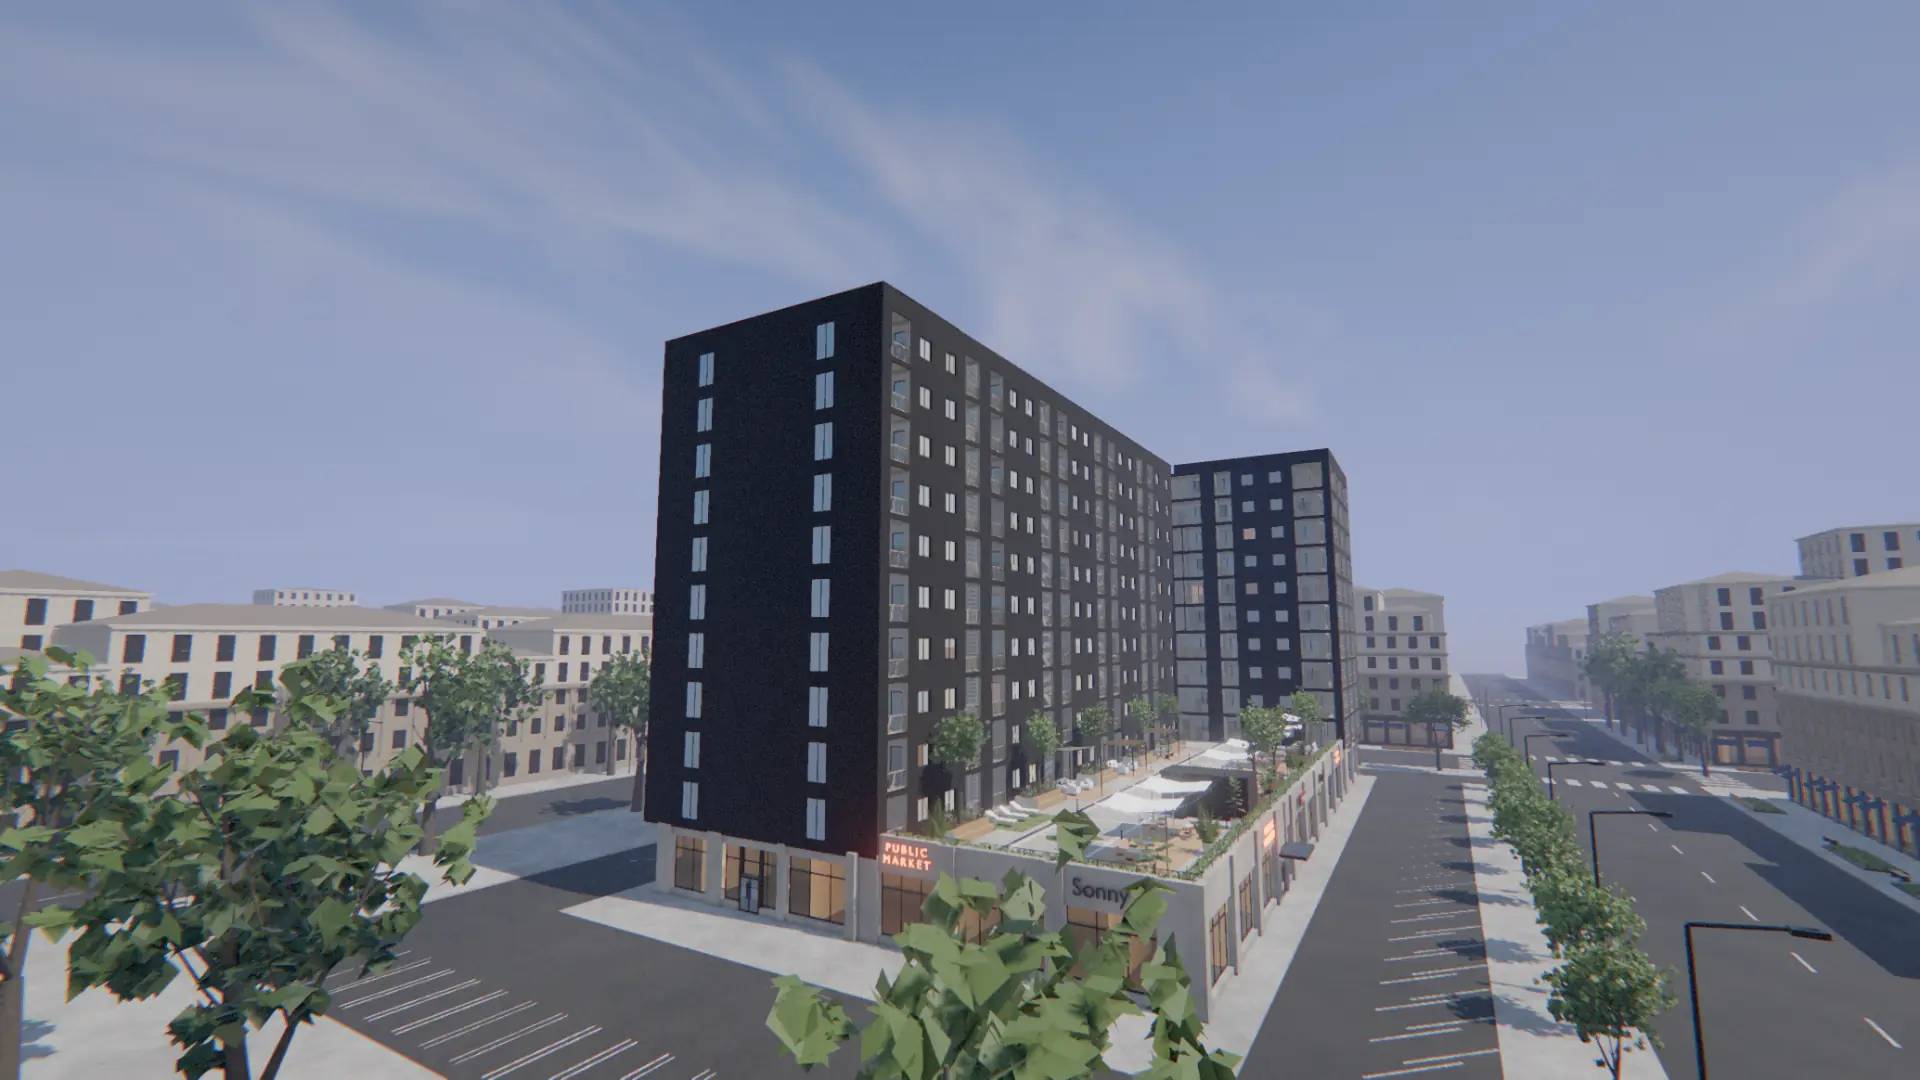
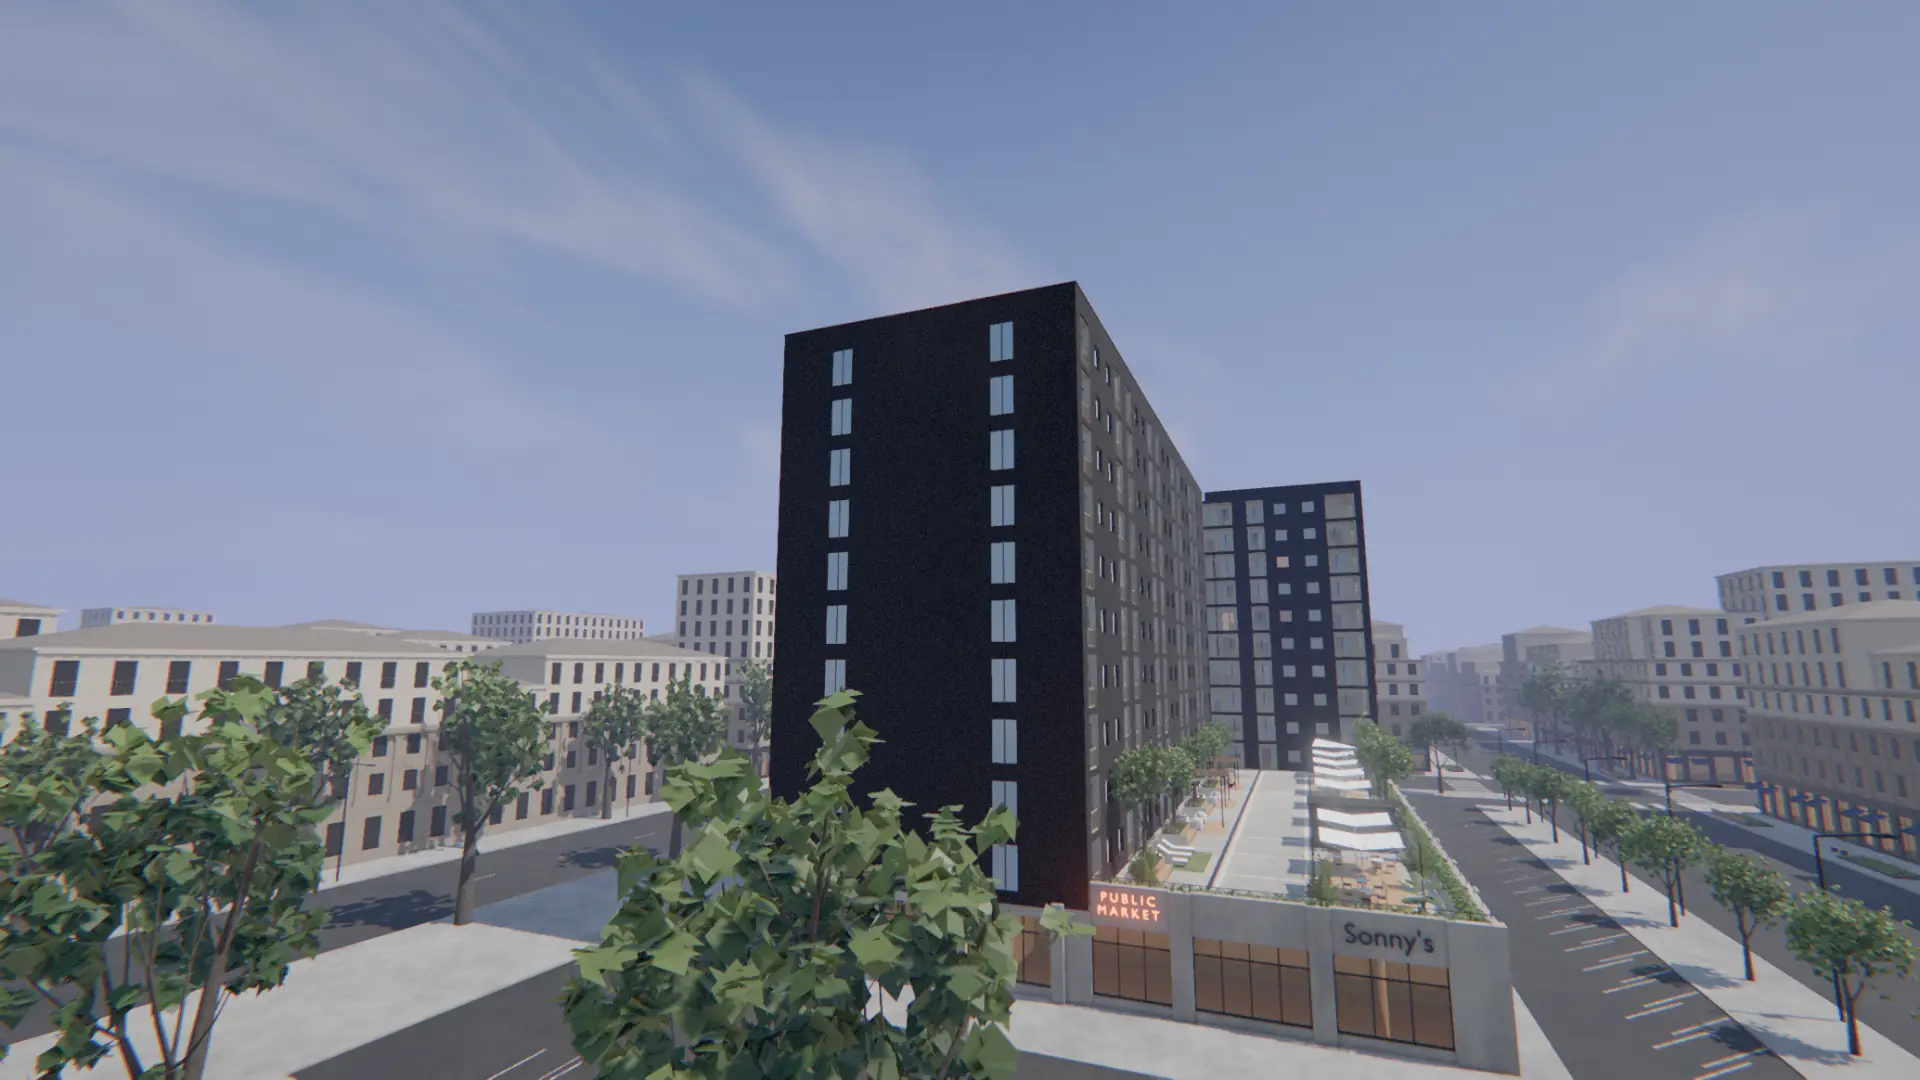
Speed: warm one furniture piece per shader, cull trees by tile, weld in slices
- lvFurnCompile warms one piece per material + attribute layout (788 -> 32
  on L06): the first storey is furnished ~0.9 s sooner (?furnwarm=all: old)
- street trees welded per 50 m cell and frustum culled: walking frames
  -2 to -3 ms, ~2.5 M fewer triangles submitted (?treetile=0: old). The
  hero's 1.15% pixel diff is the railings' TRAA phase, not the trees
- the walk's furniture weld runs in 8 ms slices (weldedAsync): worst frame
  per storey entry 170-266 -> 38-87 ms, lift ride 299 -> 76-91 ms
  (?weldslice=0: old)
- opening shot: corner pinned 56% across (clear of the headline), the
  sweep turns 27 degrees (172 -> 145); boot poster re-shot

diff --git a/web/levels.js b/web/levels.js
@@ -582,6 +582,126 @@ export function buildFurniture( root, lvIndex, mats, onMissing ) {
 		group.add( weld );
 		return weld;
 	}
+	/* The same weld, sliced: the welded meshes are written straight into one
+	 * preallocated array per attribute and material - no clone, no
+	 * applyMatrix4 copy, no merge - in the order `welded()` writes them, with
+	 * the same arithmetic (Vector3.applyMatrix4 / applyNormalMatrix), and a
+	 * frame is let through whenever SLICE_MS has gone. The sync weld was one
+	 * 100-270 ms task on every storey a walk loads. A material whose sets do
+	 * not line up (mixed indexing, differing attributes or types) is welded
+	 * the old way, so the result is what `welded()` would have built. */
+	let weldJob = null, gone = false;
+	function weldedAsync( yieldFn, SLICE_MS = 8 ) {
+		if ( weld ) return Promise.resolve( weld );
+		if ( weldJob ) return weldJob;
+		weldJob = ( async () => {
+			const out = new THREE.Group();
+			out.name = 'furniture_welded';
+			out.visible = false;
+			const byMat = new Map();
+			for ( const S of sets.values() ) {
+				const keepUv = !! ( S.mat.map || S.mat.normalMap || S.mat.roughnessMap || S.mat.aoMap );
+				if ( ! byMat.has( S.mat ) ) byMat.set( S.mat, { keepUv, sets: [] } );
+				byMat.get( S.mat ).sets.push( S );
+			}
+			let t0 = performance.now();
+			const tick = async () => { if ( performance.now() - t0 > SLICE_MS ) { await yieldFn(); t0 = performance.now(); } };
+			const keepInst = new Set();
+			const _v = new THREE.Vector3(), _nm = new THREE.Matrix3();
+			for ( const [ mat, E ] of byMat ) {
+				const names = ( g ) => Object.keys( g.attributes ).filter( a => a === 'position' || a === 'normal' || ( E.keepUv && a === 'uv' ) ).sort().join();
+				const g0 = E.sets[ 0 ].geo, nm0 = names( g0 );
+				const same = E.sets.every( S => names( S.geo ) === nm0 && !! S.geo.index === !! g0.index
+					&& [ 'position', 'normal', 'uv' ].every( a => {
+						const A = S.geo.attributes[ a ], B = g0.attributes[ a ];
+						if ( ! B || ! nm0.split( ',' ).includes( a ) ) return true;
+						return A.itemSize === B.itemSize && !! A.normalized === !! B.normalized && ! A.isInterleavedBufferAttribute
+							&& A.array.constructor === B.array.constructor && ( a === 'uv' || A.array instanceof Float32Array );
+					} ) );
+				let geo = null;
+				if ( ! same ) {
+					// the old way, for this material alone
+					const geos = [];
+					for ( const S of E.sets ) for ( const it of S.items ) {
+						const g = S.geo.clone().applyMatrix4( it.m );
+						for ( const a of Object.keys( g.attributes ) )
+							if ( a !== 'position' && a !== 'normal' && ! ( E.keepUv && a === 'uv' ) ) g.deleteAttribute( a );
+						g.morphAttributes = {};
+						geos.push( g );
+					}
+					geo = mergeAll( geos );
+					for ( const g of geos ) g.dispose();
+					await tick();
+				} else {
+					const has = nm0.split( ',' );
+					let V = 0, I = 0;
+					for ( const S of E.sets ) {
+						V += S.geo.attributes.position.count * S.items.length;
+						if ( g0.index ) I += S.geo.index.count * S.items.length;
+					}
+					const pos = new Float32Array( V * 3 );
+					const nor = has.includes( 'normal' ) ? new Float32Array( V * 3 ) : null;
+					const uvA = has.includes( 'uv' ) ? g0.attributes.uv : null;
+					const uv = uvA ? new uvA.array.constructor( V * uvA.itemSize ) : null;
+					const idx = g0.index ? ( V > 65535 ? new Uint32Array( I ) : new Uint16Array( I ) ) : null;
+					let vo = 0, io = 0;
+					for ( const S of E.sets ) {
+						const P = S.geo.attributes.position.array, N = nor && S.geo.attributes.normal.array;
+						const U = uv && S.geo.attributes.uv.array, X = idx && S.geo.index;
+						const n = S.geo.attributes.position.count;
+						for ( const it of S.items ) {
+							const e = it.m.elements;
+							for ( let i = 0; i < n; i ++ ) {
+								const x = P[ i * 3 ], y = P[ i * 3 + 1 ], z = P[ i * 3 + 2 ];
+								const w = 1 / ( e[ 3 ] * x + e[ 7 ] * y + e[ 11 ] * z + e[ 15 ] );
+								const o = ( vo + i ) * 3;
+								pos[ o ] = ( e[ 0 ] * x + e[ 4 ] * y + e[ 8 ] * z + e[ 12 ] ) * w;
+								pos[ o + 1 ] = ( e[ 1 ] * x + e[ 5 ] * y + e[ 9 ] * z + e[ 13 ] ) * w;
+								pos[ o + 2 ] = ( e[ 2 ] * x + e[ 6 ] * y + e[ 10 ] * z + e[ 14 ] ) * w;
+							}
+							if ( N ) {
+								_nm.getNormalMatrix( it.m );
+								const q = _nm.elements;
+								for ( let i = 0; i < n; i ++ ) {
+									_v.set( N[ i * 3 ], N[ i * 3 + 1 ], N[ i * 3 + 2 ] );
+									const x = _v.x, y = _v.y, z = _v.z;
+									_v.x = q[ 0 ] * x + q[ 3 ] * y + q[ 6 ] * z;
+									_v.y = q[ 1 ] * x + q[ 4 ] * y + q[ 7 ] * z;
+									_v.z = q[ 2 ] * x + q[ 5 ] * y + q[ 8 ] * z;
+									_v.normalize();
+									const o = ( vo + i ) * 3;
+									nor[ o ] = _v.x; nor[ o + 1 ] = _v.y; nor[ o + 2 ] = _v.z;
+								}
+							}
+							if ( U ) uv.set( U.subarray( 0, n * uvA.itemSize ), vo * uvA.itemSize );
+							if ( X ) { for ( let j = 0; j < X.count; j ++ ) idx[ io + j ] = X.getX( j ) + vo; io += X.count; }
+							vo += n;
+							await tick();
+						}
+					}
+					geo = new THREE.BufferGeometry();
+					geo.setAttribute( 'position', new THREE.BufferAttribute( pos, 3 ) );
+					if ( nor ) geo.setAttribute( 'normal', new THREE.BufferAttribute( nor, 3 ) );
+					if ( uv ) geo.setAttribute( 'uv', new THREE.BufferAttribute( uv, uvA.itemSize, uvA.normalized ) );
+					if ( idx ) geo.setIndex( new THREE.BufferAttribute( idx, 1 ) );
+				}
+				if ( ! geo ) { keepInst.add( mat ); continue; }
+				geo.computeBoundingSphere();
+				const mesh = new THREE.Mesh( geo, mat );
+				mesh.name = 'furn_weld_' + mat.name;
+				mesh.castShadow = mesh.receiveShadow = true;
+				mesh.frustumCulled = false;
+				out.add( mesh );
+			}
+			out.userData.keepInst = keepInst;
+			// a sync weld got there first, or the level was let go meanwhile
+			if ( weld || gone ) { for ( const m of out.children ) m.geometry.dispose(); return weld || out; }
+			weld = out;
+			group.add( weld );
+			return weld;
+		} )();
+		return weldJob;
+	}
 	let isWeld = false;
 	// a piece is drawn when it stands, and - on a walk - only if its material would not weld
 	const vis = ( q ) => q.s > 0 && ( ! isWeld || weld.userData.keepInst.has( q.mesh.material ) );
@@ -632,6 +752,7 @@ export function buildFurniture( root, lvIndex, mats, onMissing ) {
 			return a || b;
 		},
 		welded,
+		weldedAsync,
 		get instanced() { return inst; },
 		/* one mesh of each (geometry, material): what a compile has to see */
 		reps,
@@ -643,6 +764,7 @@ export function buildFurniture( root, lvIndex, mats, onMissing ) {
 			return { by: out, all: [ ...units.values() ].reduce( ( a, l ) => a + l.length, 0 ), weld: isWeld };
 		},
 		dispose() {
+			gone = true;
 			for ( const m of inst.children ) m.dispatchEvent( { type: 'dispose' } );
 			for ( const S of sets.values() ) S.geo.dispose();
 			if ( weld ) for ( const m of weld.children ) m.dispatchEvent( { type: 'dispose' } );

diff --git a/web/app.js b/web/app.js
@@ -1865,8 +1865,7 @@ function groupOf( o ) {
  * Nothing in here creates a group or measures the scene; `optimise` keeps
  * both, because they are the parts that may only happen once. */
 const TREE_TILE = + ( __q.get( 'treetile' ) ?? 50 );   // tree tile, metres (0: whole)
-const HOOD_TILE_X = + ( __q.get( 'hoodtile' ) ?? 2.4 );  // a neighbours' tile, in tree tiles
-const IS_TILED = /^(foliage|foliage_b|bark|hood_.*)$/;
+const IS_TILED = /^(foliage|foliage_b|bark)$/;
 function batchInto( root, only ) {
 	const byGeo = new Map();
 	// In developer mode every piece of the flat stays its own object so it can
@@ -1935,14 +1934,15 @@ function batchInto( root, only ) {
 	 * stands beside, a leaf could never be turned without taking its own
 	 * doorframe round with it. See `doorRig`. */
 	const byMat = new Map();
-	/* The trees and the neighbours are welded in TILES of the plan, not one
-	 * mesh a material: 50 m squares for the trees, 120 m for the neighbours
-	 * (a fifth of the triangles, spread over 800 m), each tile culled by
-	 * its bounding sphere. One mesh for the whole city meant every pass - the
-	 * walk's shadow redraw on every moving frame above all - submitted every
-	 * crown and every neighbour, almost all of it outside the cascade box or
-	 * behind the camera. Same material, same attributes: more draws, no new
-	 * pipeline. `?treetile=0` welds them whole, as before. */
+	/* The trees are welded in TILES of the plan - 50 m squares, each culled
+	 * by its bounding sphere - not one mesh a material. One mesh for the
+	 * whole city meant every pass, the walk's shadow redraw on every moving
+	 * frame above all, submitted all 1.07 M triangles of crowns, almost all
+	 * of them outside the cascade box or behind the camera. Same material,
+	 * same attributes: ~60 more draws, no new pipeline. The neighbours
+	 * (hood_*) stay whole: tiled they were 150 more draws for 0.3 M
+	 * triangles and the lift ride got slower on draw submission.
+	 * `?treetile=0` welds the trees whole, as before. */
 	const tileOf = new Map();
 	if ( TREE_TILE ) {
 		const box = new THREE.Box3(), c = new THREE.Vector3();
@@ -1952,8 +1952,7 @@ function batchInto( root, only ) {
 			m.updateWorldMatrix( true, false );
 			if ( ! m.geometry.boundingBox ) m.geometry.computeBoundingBox();
 			box.copy( m.geometry.boundingBox ).applyMatrix4( m.matrixWorld ).getCenter( c );
-			const cell = /^hood_/.test( n ) ? TREE_TILE * HOOD_TILE_X : TREE_TILE;
-			tileOf.set( m, Math.floor( c.x / cell ) + ',' + Math.floor( c.z / cell ) );
+			tileOf.set( m, Math.floor( c.x / TREE_TILE ) + ',' + Math.floor( c.z / TREE_TILE ) );
 		}
 	}
 	leftovers.forEach( ( [ g, m ] ) => {
@@ -5297,12 +5296,18 @@ function furnWarmSet( reps ) {
 	}
 	return [ ...seen.values() ];
 }
+/* The walk's welded furniture, built in slices a frame apart (levels.js
+ * `weldedAsync`) - the one-task weld was the bulk of every storey entry's
+ * worst frame. `?weldslice=0` welds in one go, as before. */
+const WELD_SLICE = __q.get( 'weldslice' ) !== '0';
+function lvFurnWeld( F ) {
+	return WELD_SLICE ? F.weldedAsync( nextFrame ) : Promise.resolve( F.welded() );
+}
 function lvFurnCompile( P, F ) {
 	/* On a walk only the welded variant is wanted, and it is built the walk's
 	 * way (`lvWarmWalk`); the floor view's instanced one is built behind the
 	 * gate the first time a floor view needs it. */
-	if ( bwOn && BW_ASYNC && PIPES ) {
-		const W = F.welded();
+	if ( bwOn && BW_ASYNC && PIPES ) return lvFurnWeld( F ).then( ( W ) => {
 		const mats = new Set( W.children.filter( o => o.isMesh ).map( o => o.material )
 			.concat( [ ...W.userData.keepInst ] ) );
 		let gWas = false, capWas = false;
@@ -5316,12 +5321,12 @@ function lvFurnCompile( P, F ) {
 			if ( ! ( bwOn && bwShown.has( P.name ) ) ) { F.walk( false ); F.all( 0 ); P.group.visible = gWas; }
 			if ( P.cap ) P.cap.visible = capWas;
 		}, mats, lvFurnWalked );
-	}
+	} );
 	const job = lvWarm.then( async () => {
 		/* Both ways it is drawn - instanced in the floor view, welded on a
 		 * walk - are pipelines of their own; both are built here, behind the
 		 * gate, so neither is a first draw in front of a visitor. */
-		const W = F.welded();
+		const W = await lvFurnWeld( F );
 		const mats = new Set( F.instanced.children.map( o => o.material ) );
 		const key = ( m ) => m.uuid;
 		if ( ! [ ...mats ].every( m => lvFurnWarmed.has( key( m ) ) ) ) {
@@ -6582,8 +6587,9 @@ const RAIL_PIN_Y = + ( __q.get( 'pin' ) ?? 0.26 );
 /* ...and where across the window that corner stands, as a fraction of the
  * width. Pinning it is what keeps the gap between the type and the building
  * the same all the way round: the camera orbits, the composition does not. */
-/* 0.52 -> 0.46 (user, 2026-11-25: "move the building a little left"). */
-const RAIL_PIN_X = + ( __q.get( 'pinx' ) ?? 0.46 );
+/* 0.52 -> 0.46 -> 0.56 (user, 2026-11-25: at 0.46 the building sat on
+ * the headline; "move it right by 10%"). */
+const RAIL_PIN_X = + ( __q.get( 'pinx' ) ?? 0.56 );
 const RAIL_PAUSE = 1200;     // ms held still at each end - and at full size
 const RAIL_IDLE = 9000;      // ms after a drag before it picks up again
 const RAIL_REJOIN = 2600;    // ms easing back onto the rail

diff --git a/blender/build.py b/blender/build.py
@@ -180,7 +180,12 @@ def write_meta(path):
     def on_circle(bearing_deg, z):
         a = math.radians(bearing_deg)
         return W(cx + R * math.cos(a), cy + R * math.sin(a), z)
-    rail = {'a': on_circle(160.0, 17.0), 'b': on_circle(143.0, 15.0)}
+    # 160 -> 143 turned only 17 degrees in a 50 s leg (user, 2026-11-25:
+    # "the shot should turn a little"). 172 -> 145 turns 27, over open street
+    # all the way (the west street, then the south-west junction). Wider was
+    # tried: from 185 the gable fills the frame alone, and at 141 the wing
+    # runs off the right edge.
+    rail = {'a': on_circle(172.0, 17.0), 'b': on_circle(145.0, 15.0)}
     corner = W(-0.25, 18.25, LB.ROOF_Z)
     meta = {
         'frame': {'origin': W(0, 0, 0), 'ex': D(1, 0, 0), 'ey': D(0, 1, 0), 'up': [0, 1, 0],

diff --git a/README.md b/README.md
@@ -2758,7 +2758,7 @@ lamp columns, corner beds behind timber-slat fences, benches.
 stands on the 6 m building line like the other three, and the far pavement
 keeps beds, benches and trees. That moved the cameras: the lab hero and the
 `?hero=` candidates stand on that pavement (y 75.5), and the sales page's
-rail (`build.py`, `rail`) is 85 m out at bearings 160 -> 143, from over the
+rail (`build.py`, `rail`) is 85 m out at bearings 172 -> 145, corner pinned 56% across, from over the
 west street to the south-west junction (render 002's standpoint). The old
 arc (134 -> 112) now runs through buildings, and an arc pulled in over the
 street (62 m) put the building past the frame's edge. Re-shoot
